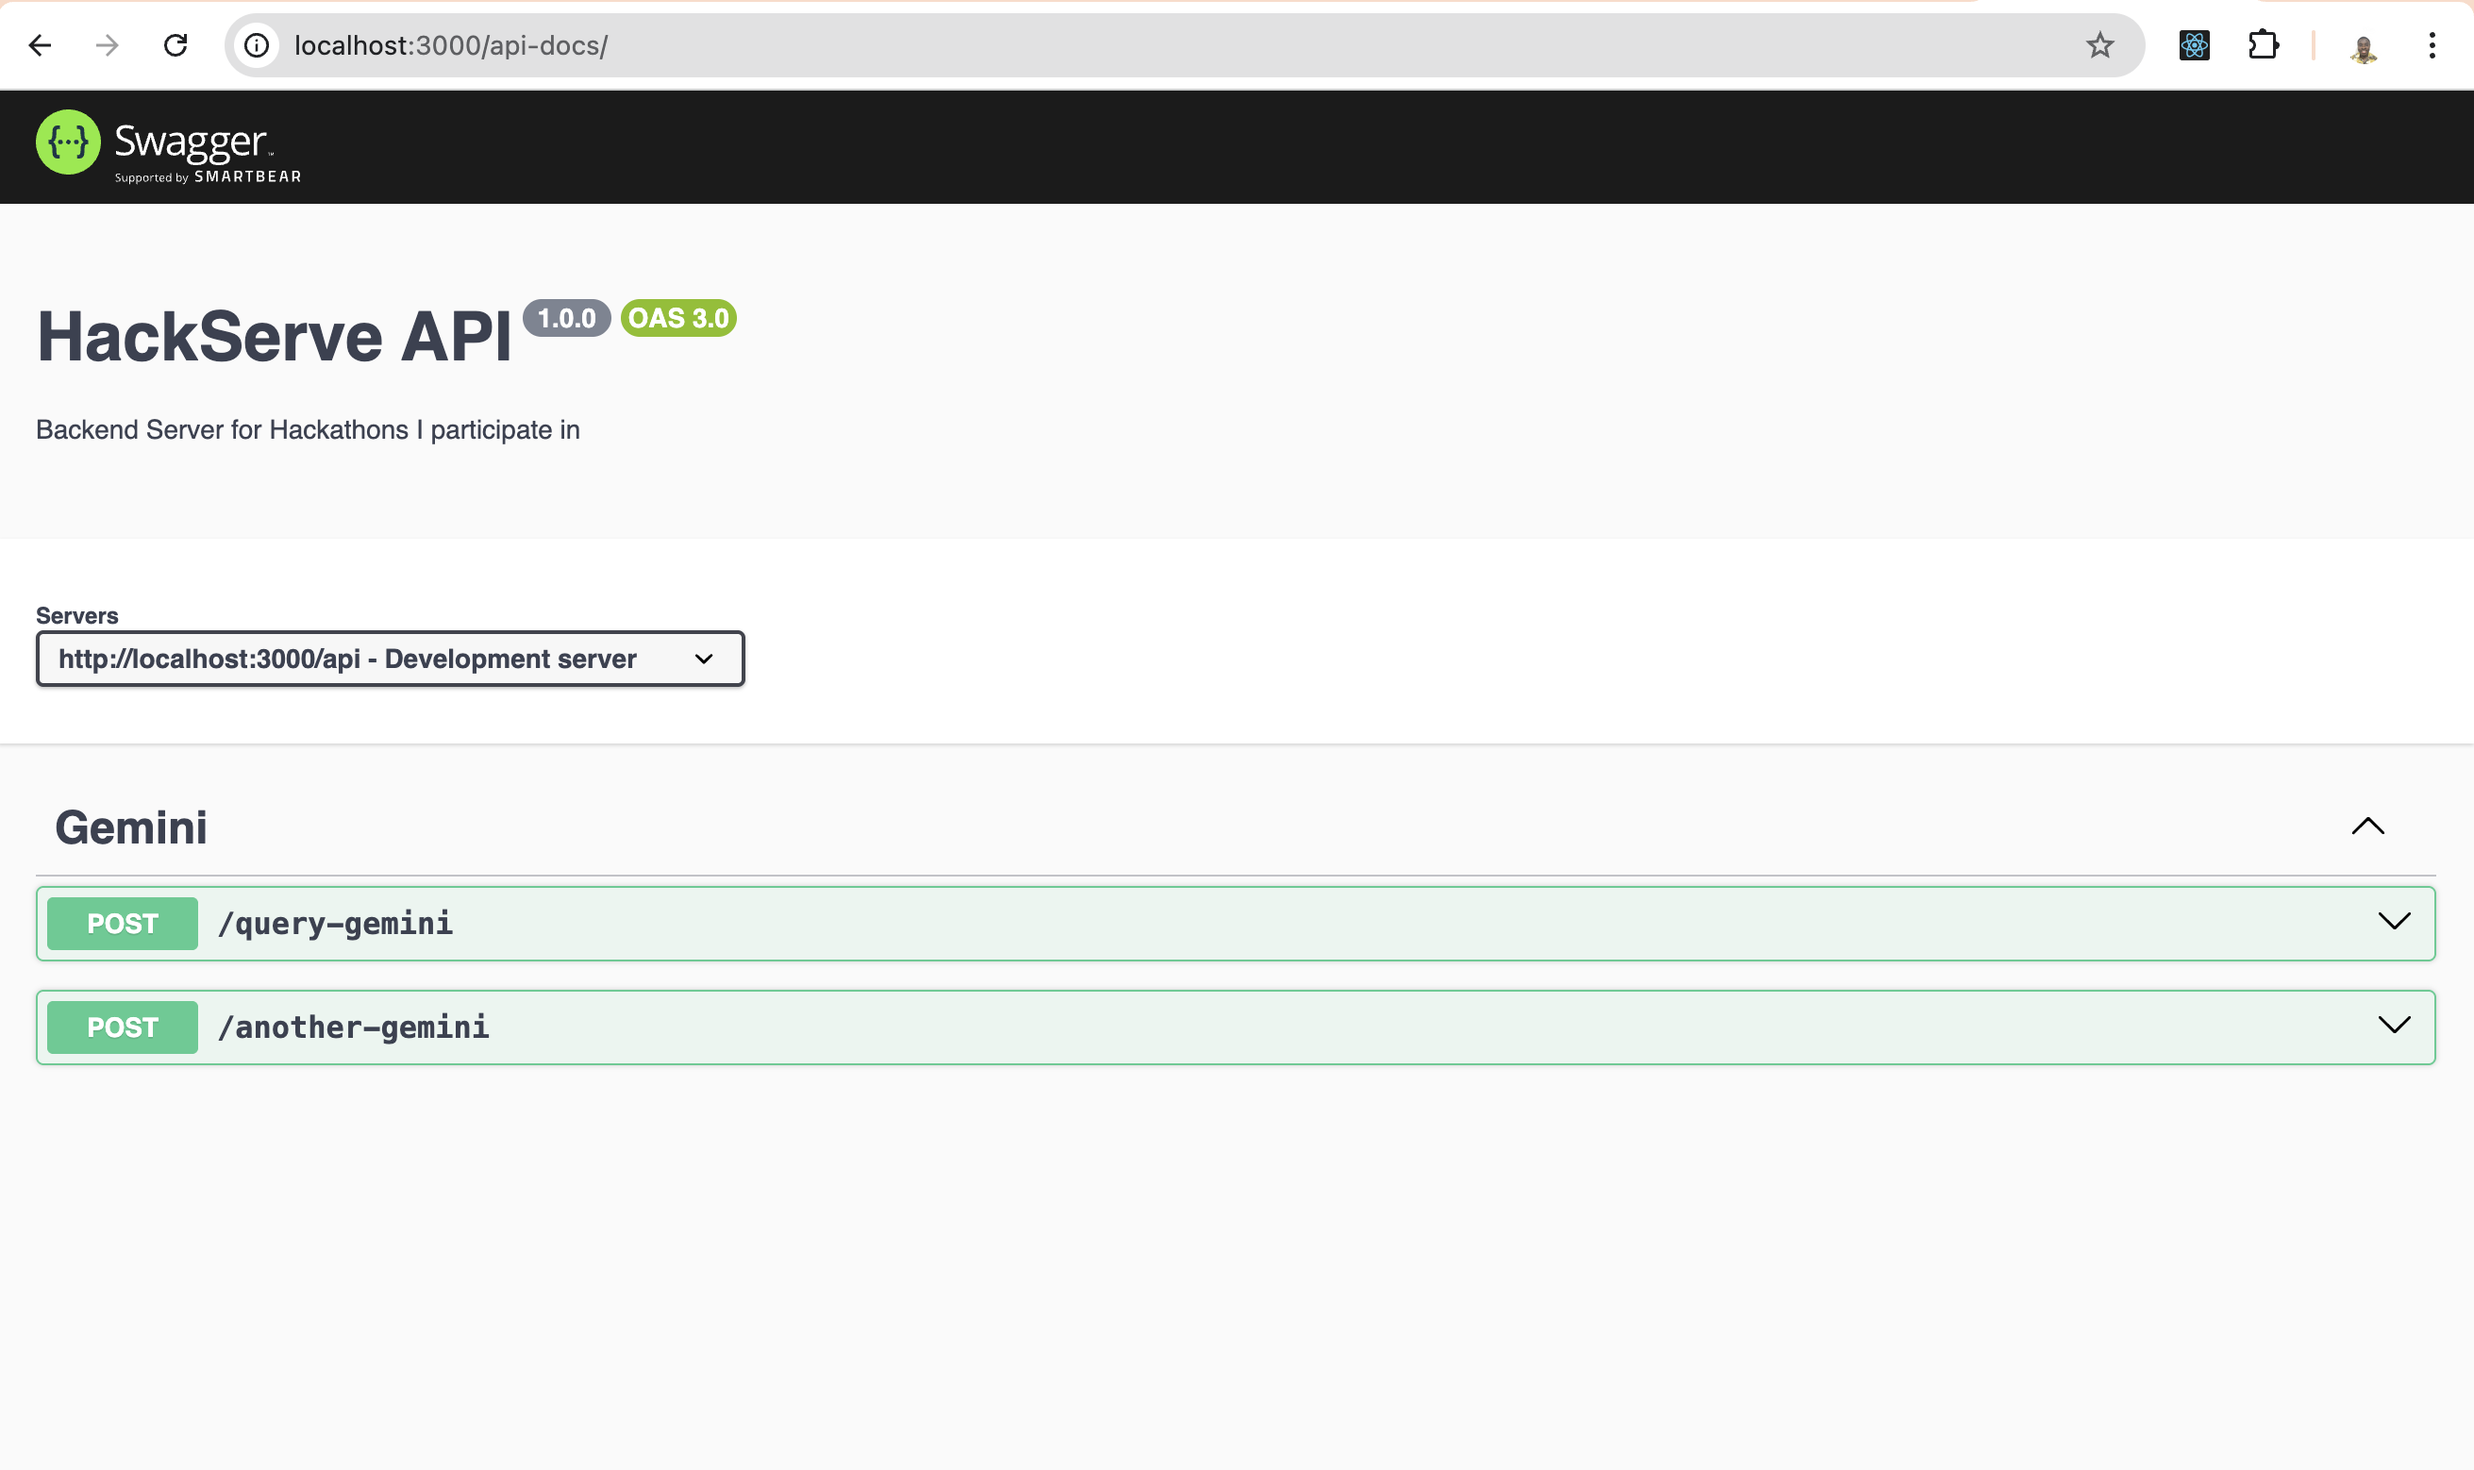
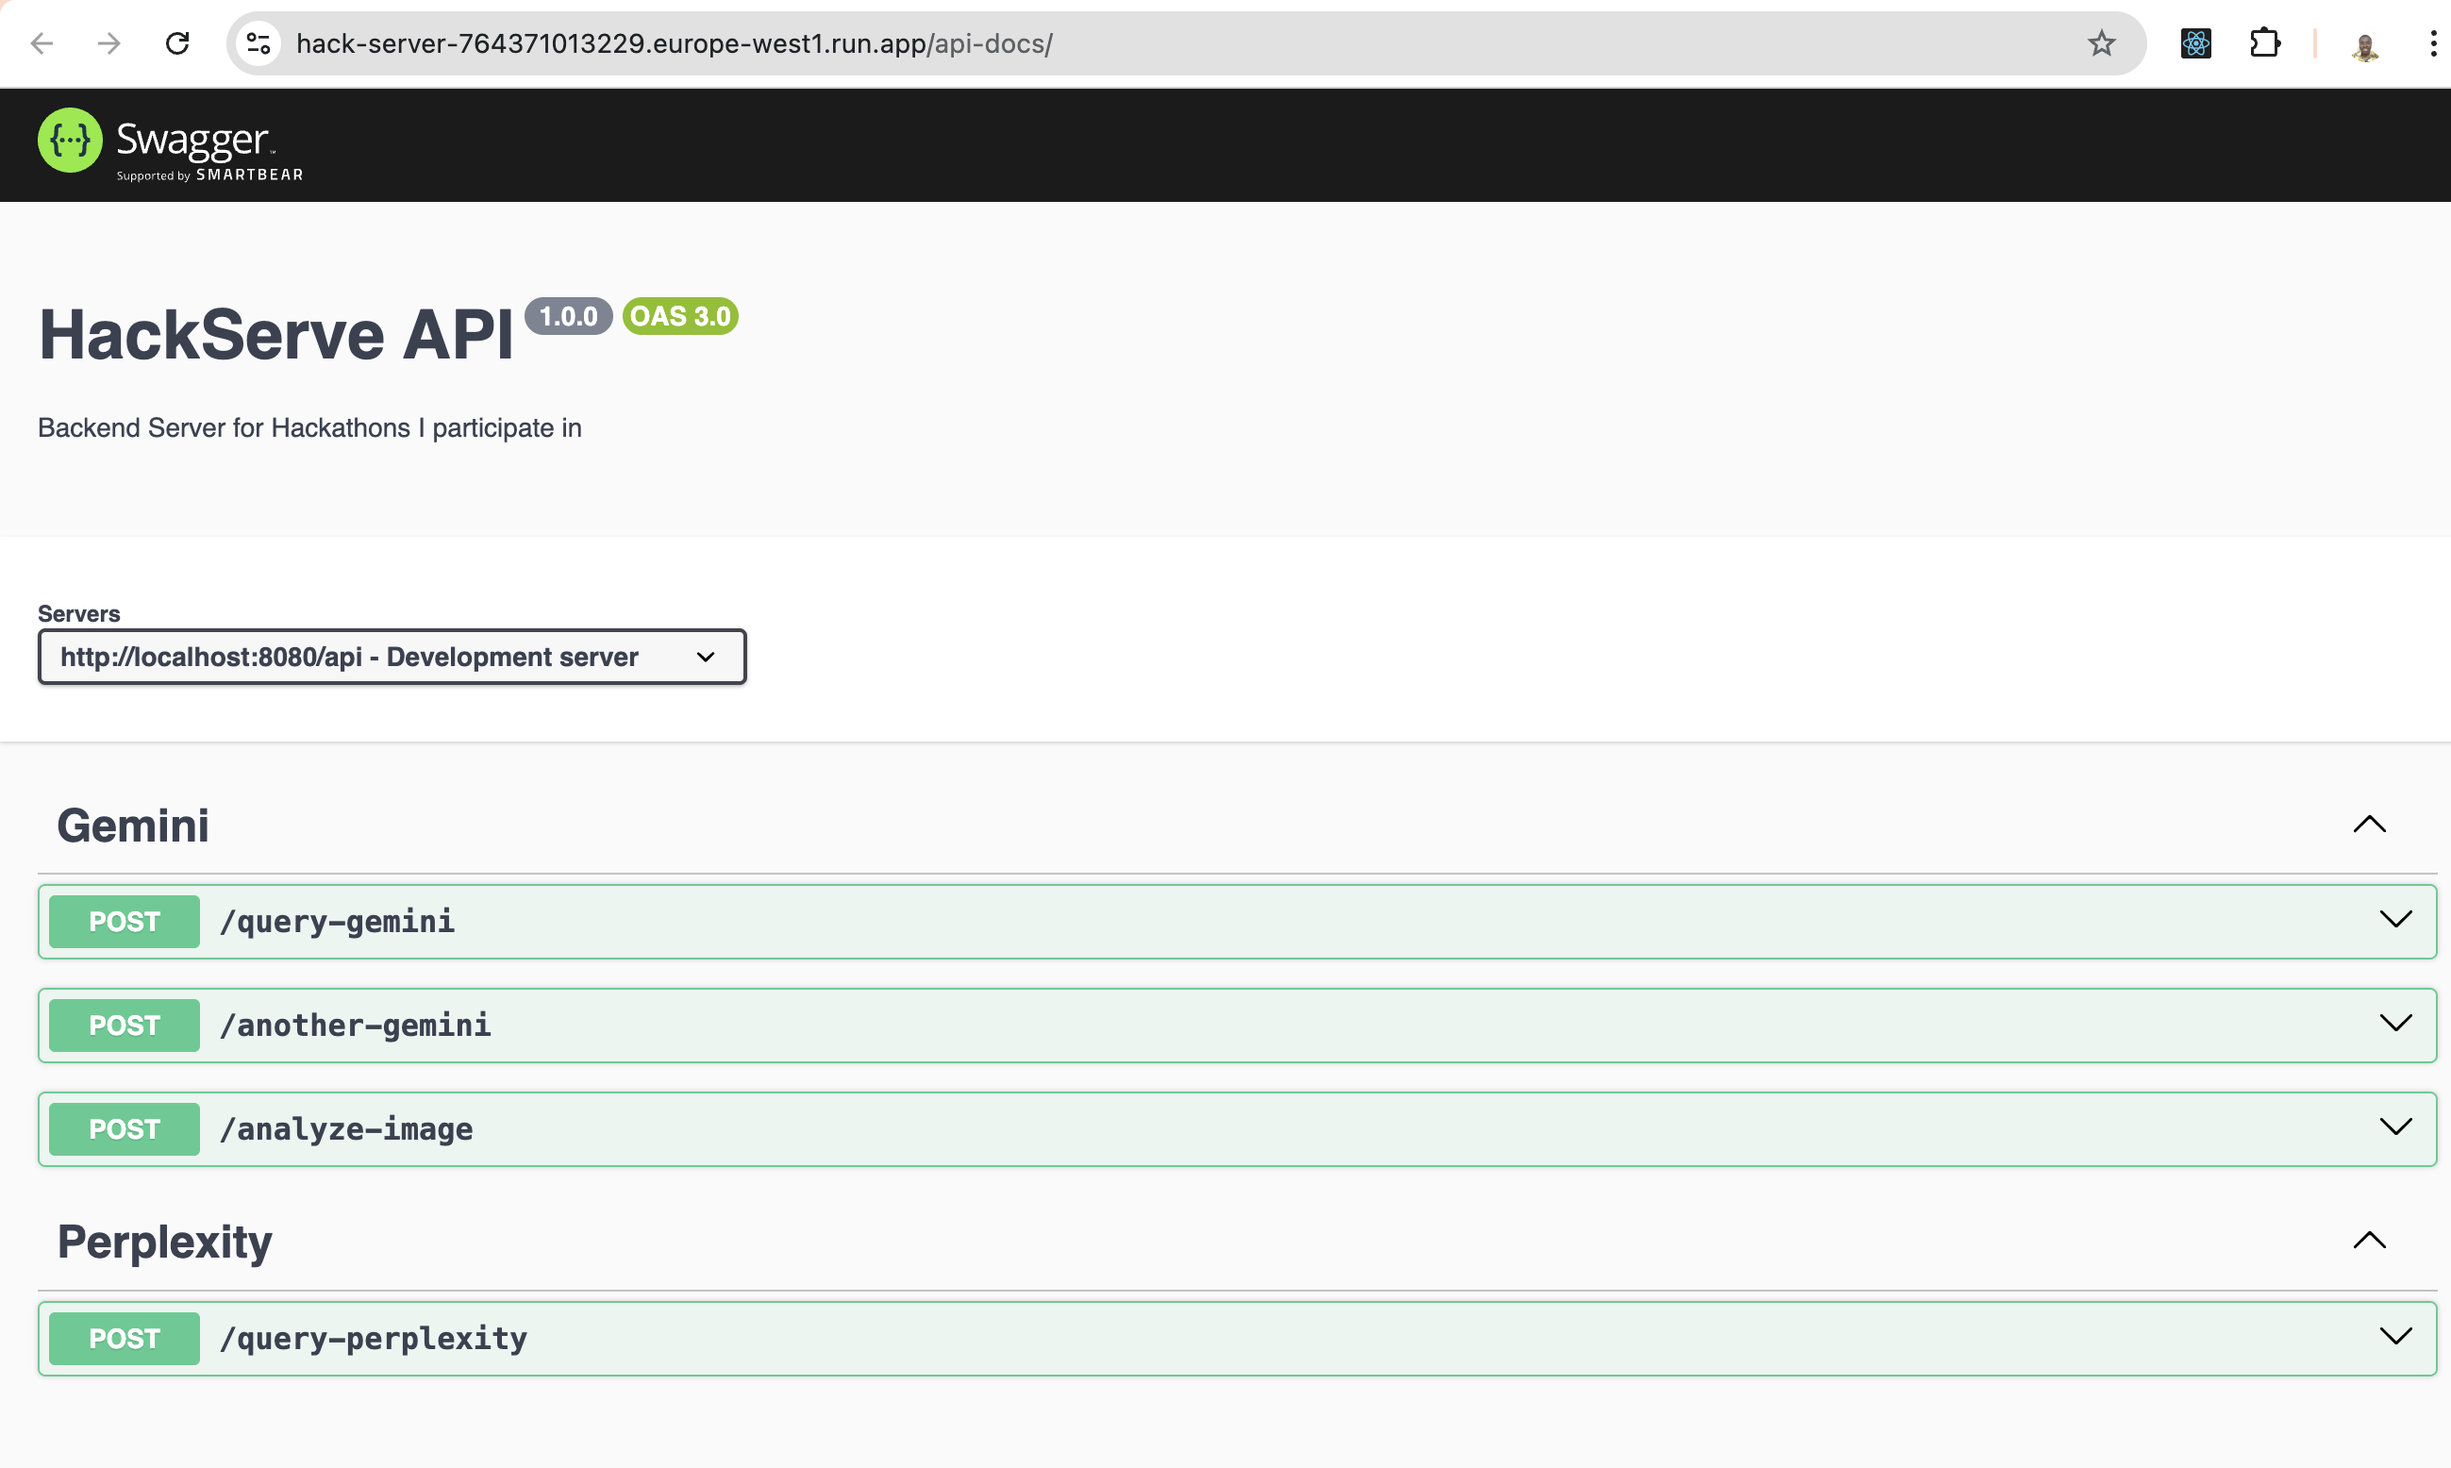
updated readme

diff --git a/README.md b/README.md
@@ -4,10 +4,15 @@
 
 Hack-Server is a backend Express server built with TypeScript to support various hackathon projects. It currently features integration with Google's Gemini AI API for medical symptom analysis.
 
+## Project Deployment
+[![Project URL](https://img.shields.io/badge/Project-URL-brightgreen)](https://hack-server-764371013229.europe-west1.run.app/api-docs)
+
+
 ## Features
 
 - RESTful API endpoints using Express
 - Google Gemini AI integration for medical diagnosis
+- Perplexity AI integration for medical diagnosis
 - Swagger documentation for API endpoints
 - TypeScript for type safety
 - Environment variable support with dotenv
@@ -15,7 +20,7 @@ Hack-Server is a backend Express server built with TypeScript to support various
 ## Getting Started
 ### Prerequisites
 
-- Node.js (v14 or later recommended)
+- Node.js (v20 or later recommended)
 - npm or yarn
 
 ### Installation
@@ -37,6 +42,7 @@ npm install
 
 ```plaintext
 GEMINI_API_KEY=your_gemini_api_key_here
+SONAR_API_KEY=your_sonar_api_key_here
 PORT=3000
 ```
 
@@ -73,18 +79,21 @@ API documentation is available via Swagger UI at `/api-docs` when the server is 
 ├── tsconfig.json         # TypeScript configuration
 ├── README.md             # Project documentation
 └── src/                  # Source code directory
-    ├── app.ts            # Main application entry point
     ├── controllers/      # API controllers
     │   └── gemini.ts     # Gemini AI controller
+    │   └── perplexity.ts     # Perplexity AI controller
     └── routes/           # API routes
         └── gemini_routes.ts  # Gemini routes definition
+        └── perplexity_routes.ts  # Perplexity routes definition
+├── app.ts            # Main application entry point
 ```
 
 ## LICENSE
 MIT License
 
 ## Authors
-[StormGear](https://github.com/StormGear)
+[StormGear](https://github.com/StormGear) <br/>
+[papakofi](https://gitlab.com/papakofi)
 
 
 
